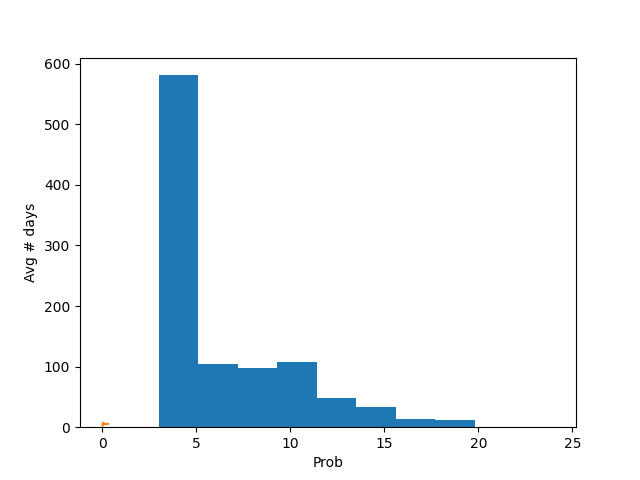
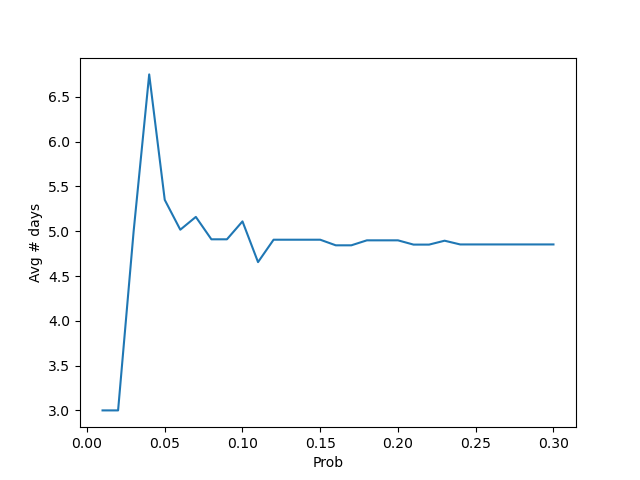
Closing First Graph
Added a line to close the first graph, otherwise the second graph is a histogram instead of line.

diff --git a/main.py b/main.py
@@ -196,7 +196,7 @@ if __name__ == "__main__":
     p = .01
     dayList = np.array([])
     bins = []
-
+    #The Below loop take a bit to run, coment out for faster run times. 
     while(p <.31):
         counter = 0
         print(p)
@@ -210,7 +210,7 @@ if __name__ == "__main__":
 
 
 
-
+    plt.close()
     plt.plot(yaxis, dayList)
     plt.xlabel('Prob')
     plt.ylabel('Avg # days')
